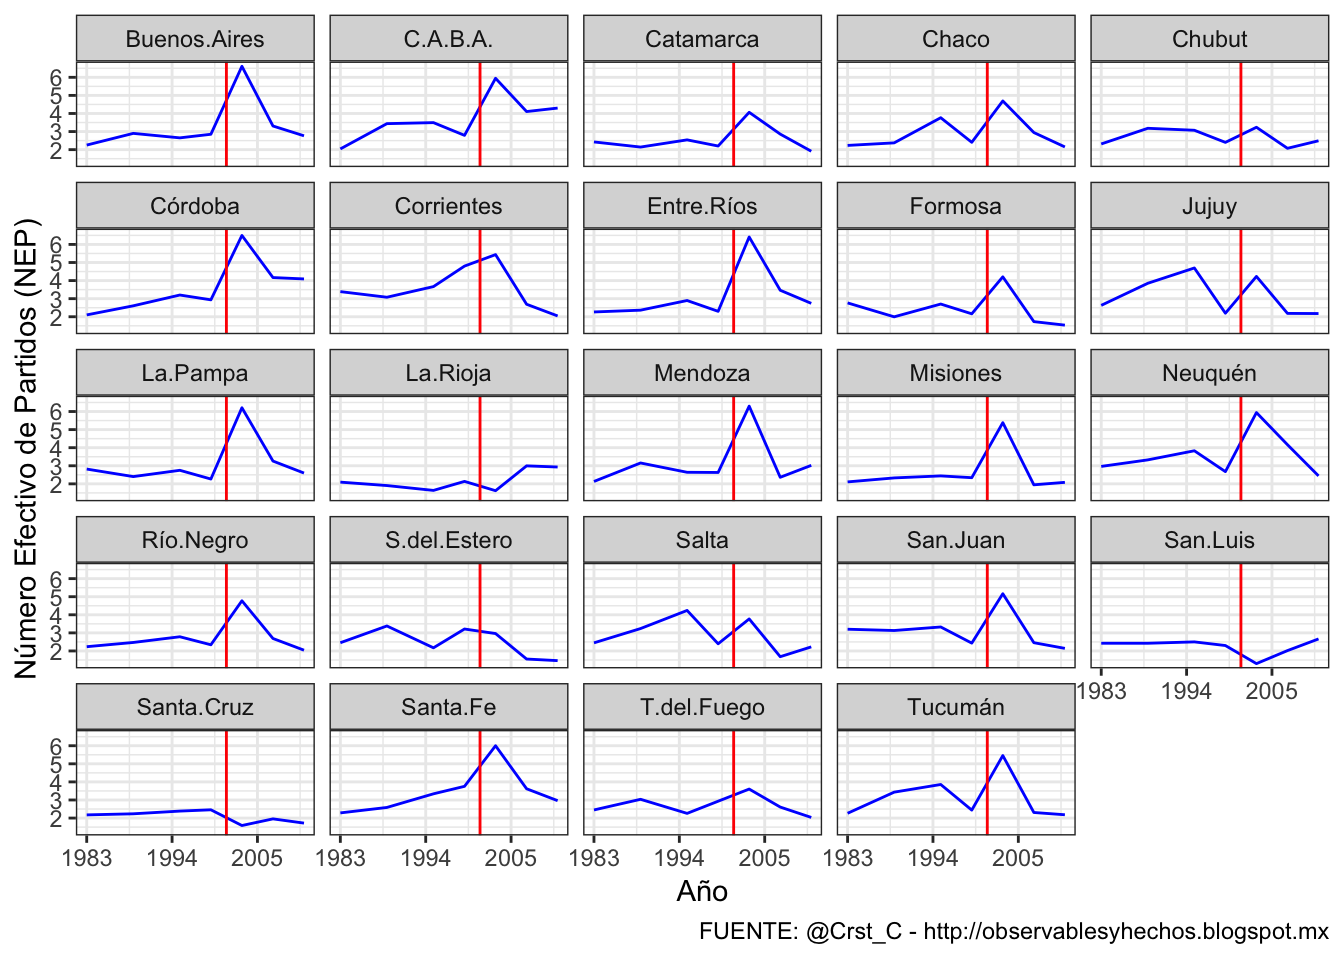
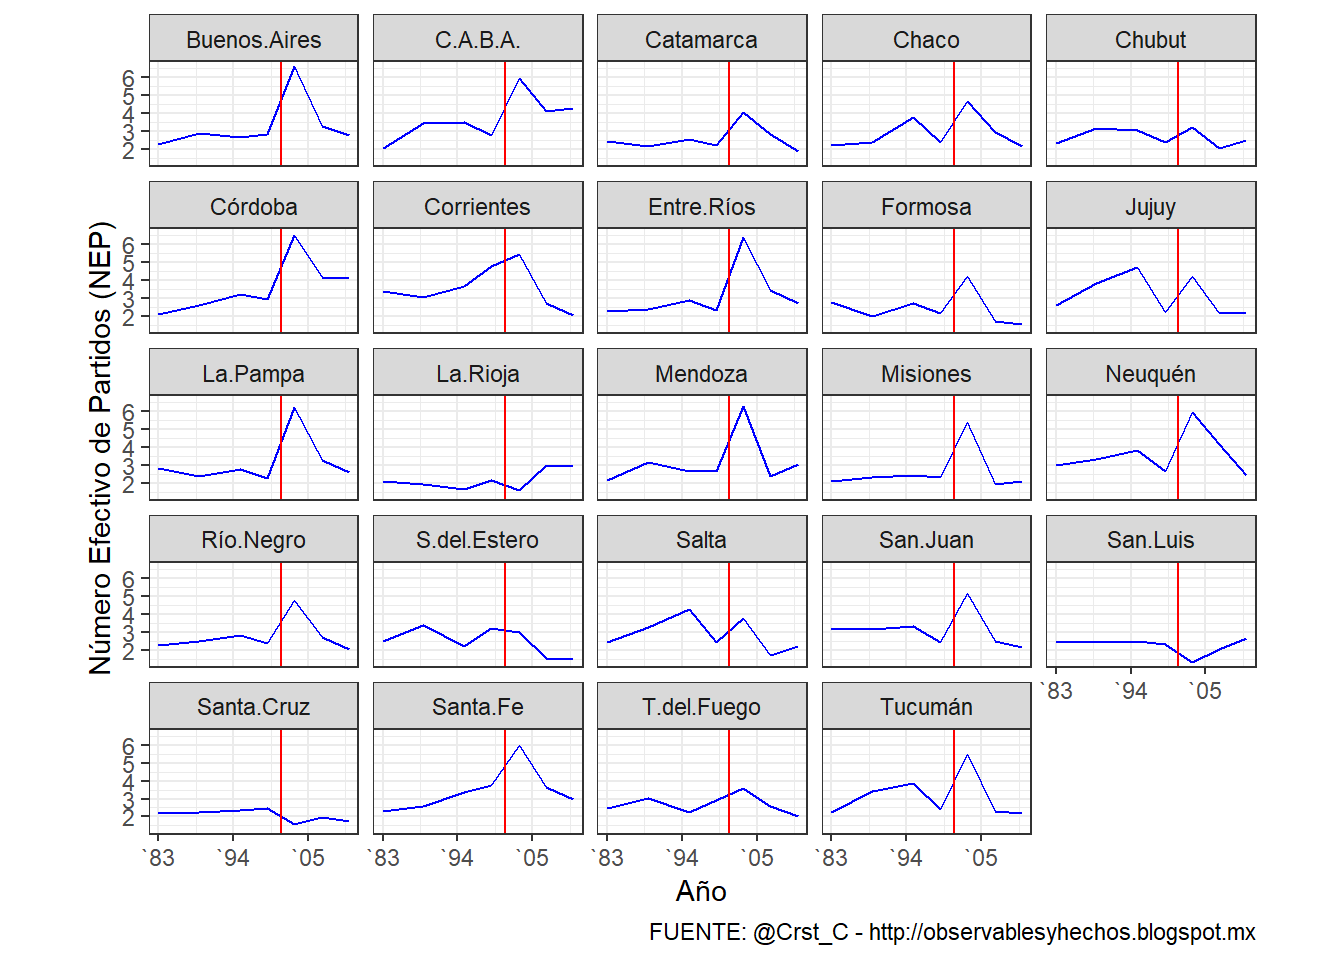
Site rebuild Wed, Jan 23, 2019  9:52:41 AM

Changed region(s): [[0.0, 0.0, 1.0, 1.0]]

diff --git a/public/2018/01/21/geofacetear/index.html b/public/2018/01/21/geofacetear/index.html
@@ -3,7 +3,7 @@
   <head>
     <meta charset="utf-8">
 <meta name="viewport" content="width=device-width, initial-scale=1.0">
-<meta name="generator" content="Hugo 0.51" />
+<meta name="generator" content="Hugo 0.53" />
 
 
 <title>GeofaceteAR - TuQmanoR</title>
@@ -63,7 +63,7 @@
 
   <article class="article">
     
-    <span class="article-duration">3 min read</span>
+    <span class="article-duration">4 min read</span>
     
 
     <h1 class="article-title">GeofaceteAR</h1>
@@ -76,18 +76,26 @@
       
 
 
-<p>En este posteo quiero mostrar brevemente el proyecto <code>geofacet_AR</code> presentado en la primera edición de <em><em>LatinR</em></em>, tal como adelante en el <a href="https://tuqmano.github.io/2018/01/17/bienvenidos-a-tuqmanor/">primer post</a>. El mismo es una extensión<sup>2</sup> (del proyecto de <em>Ryan Hafen</em> y, en otro nivel, de las grillas o <code>facet</code> de <code>ggplot2</code>).</p>
-<p>Me permito hacer una cita traduciendo el concepto (lo más básico posible) de la <a href="https://ryanhafen.com/blog/geofacet/">nota introductoria del propio Hafen</a>:</p>
+<p>En este posteo quiero mostrar brevemente el proyecto <code>geofacet_AR</code>, presentado en la primera edición de <em><em>LatinR</em></em>, tal como adelante en el <a href="https://tuqmano.github.io/2018/01/17/bienvenidos-a-tuqmanor/">primer post</a>. El mismo es una <span class="math inline">\(extensión^2\)</span> (del proyecto de <em>Ryan Hafen</em> y, en otro nivel, de las grillas o <code>facet</code> de <code>ggplot2</code>).</p>
+<p>Me permito hacer una citar/traducir el concepto (lo más básico posible) de la <a href="https://ryanhafen.com/blog/geofacet/">nota introductoria del propio Hafen</a>:</p>
 <blockquote>
-<p>“El paquete <code>geofacet</code> amplía <code>ggplot2</code> de una manera que facilita la creación de visualizaciones geográficamente facetadas en <code>R</code>. Para hacer <code>geofacet</code> se toman datos que representan diferentes entidades geográficas y se aplica un método de visualización para cada entidad, con el conjunto resultante de visualizaciones establecidas en una cuadrícula que imita la topología geográfica original lo más cerca posible”.</p>
+<p>“El paquete <code>geofacet</code> amplía <code>ggplot2</code> de una manera que facilita la creación de visualizaciones geográficamente facetadas en <code>R</code>. Para hacer <code>geofacet</code> se toman datos que representan diferentes entidades geográficas y se aplica un método de visualización para cada entidad. El conjunto resultante de visualizaciones conforma una cuadrícula que imita la topología geográfica original”.</p>
 </blockquote>
-<p>A continuación presetnare con un ejemplo sencillo cuales (creo) son las mayores ventajas de <code>geofacet</code>. A saber:</p>
+<p>A continuación presetnaré con un ejemplo sencillo cuales (creo) son las mayores ventajas de <code>geofacet</code>. A saber:</p>
 <ul>
-<li><p>se pueden graficar múltiples variables para cad unidad geográfica</p></li>
+<li><p>se pueden graficar múltiples variables para cada unidad geográfica</p></li>
 <li><p>se pueden aplicar otros esquemas de codificación visual más allá del color</p></li>
 <li><p>cada unidad geográfica tiene asignada la misma proporción espacial</p></li>
 </ul>
-<p>Una de las propuestas de <code>geofacet</code> es potenciar el desarrollo colaborativo de <em>geografías</em>. Cuando lo descubrí, de hecho, ya existía una grilla representando la geografía de Argentina (<code>argentina_grid1</code>), desarrollada por Elio Campitelli. Como puede leerse en el <a href="https://github.com/TuQmano/geofacet_ARG/blob/master/ARGENTINA/README.md"><code>README.md</code></a> del repositorio, decidí hacer una segunda versión basandome en el código de Elio; salvo que en este caso se eliminaron las grillas correspondientes a Malvinas y Antartida.</p>
+<div id="numero-efectivo-de-partidos-nep1" class="section level3">
+<h3>Número Efectivo de Partidos (NEP)<a href="#fn1" class="footnote-ref" id="fnref1"><sup>1</sup></a></h3>
+<p>Vamos a usar datos de <em>NEP</em> en base a el trabajo de <a href="http://gvptsites.umd.edu/calvo/calvo-escolar-final-completo-Mayo-30.05.pdf">Calvo &amp; Escolar(2005)</a> y el <em>Atlas Electoral</em> de <a href="http://twitter.com/andy_tow">@andy_tow</a>. El indicador computa la proporción de votos que el partido <span class="math inline">\(_i\)</span> obtiene sobre el total de votos emitidos:</p>
+<p><span class="math inline">\(\LARGE N_{2}=\frac{1}{\sum_{i}^{n}p_{i}^2}\)</span></p>
+<p>Las fuetes origniales fueron <em>tucumaneadas</em> a <a href="http://twitter.com/Crst_C/">@Crst_C</a> y están disponibles en <a href="http://observablesyhechos.blogspot.com/2014/08/numero-efectivo-de-partidos-en.html">este post</a>.</p>
+<p><img src="/post/Geofacetear_files/figure-html/unnamed-chunk-1-1.png" width="672" /></p>
+<p>El gráfico anterior funciona bastante bien. Usa la función <code>facet_wrap</code> de <code>ggplot2</code>para generar una grilla con el calculo de <strong>NEP</strong> para cada una de las provincias. Una serie de tiempo (1983-2011) y una linea roja vertical (<code>geom_vline</code>) que marca el año 2001 (la explosión del sistema de partidos o <em>El Naufragio</em> como lo denominaron <a href="https://www.jstor.org/stable/3455975">algunos</a>). Lo que <code>geofacet</code>permite con muy poco esfuerzo es acomodar la grilla simulando la geografía _“como si fuera un mapa”, como veremos más adelante.</p>
+<hr />
+<p>Una de las propuestas de <code>geofacet</code> es potenciar el desarrollo colaborativo de <em>geografías</em>. Cuando lo descubrí, de hecho, ya existía una grilla representando la geografía de Argentina (<code>argentina_grid1</code>), desarrollada por <a href="">Elio Campitelli</a>. Como puede leerse en el <a href="https://github.com/TuQmano/geofacet_ARG/blob/master/ARGENTINA/README.md"><code>README.md</code></a> del repositorio, decidí hacer una segunda versión basándome en el código de Elio; salvo que en este caso se eliminaron las grillas correspondientes a Malvinas y la Antartida.</p>
 <p>El código para crear el objeto que luego servirá como grilla para los gráficos es el siguiente. Un <code>data.frame</code> con cuatro variables. <code>col</code> y <code>row</code> marcan posiciones de filas y columnas en la grilla, <code>code</code> asigna un código a cada provincia, y <code>name</code> contiene los nombres de esos distritos.</p>
 <p>Finalmente <code>grid_preview(argentina_grid2)</code> permite visualizar la grilla - mapa. Así, facilmente podemos identificar que Jujuy (AR-Y) - la primera unidad en las cuatro variables- tiene como coordenadas de filas y columnas <code>(1, 1)</code> y Tierra del Fuego (AR-V) - la última unidad de las variabales de nuestro <code>data.frame</code> tiene como coordenadas <code>(10, 1)</code>, siendo el primer valor para las filas (<code>row</code>) y el segundo para las columnas (<code>col</code>),</p>
 <pre class="r"><code>
@@ -103,30 +111,33 @@ argentina_grid2 &lt;-  data.frame(
 )
 
 grid_preview(argentina_grid2)</code></pre>
-<p><img src="/post/Geofacetear_files/figure-html/geogridARG-1.png" width="672" /></p>
+<p><img src="/post/Geofacetear_files/figure-html/geogridARG-1.png" width="576" /></p>
+<hr />
+</div>
+<div id="geofacet-nep" class="section level3">
+<h3><code>geofacet</code> + NEP</h3>
 <p>Habiendo cargado nuestro <em>mapa</em>, solo debemos agregar una capa al <em>chunk</em> de <code>ggplot2</code>:</p>
-<pre class="r"><code>
-#VERSION GRILLA CONVENCIONAL  
-ggplot(nep.prov, aes(year, NEPp)) +
-  geom_line(color = &quot;blue&quot;) +
-  facet_wrap(~name_es) +
-  #facet_geo(~ name_es, grid = argentina_grid2, scales = &quot;free_y&quot;) +  ESTA LINEA ES LA QEU REEMPLAZAMOS PARA geofacet 
-  ylab(&quot;Número Efectivo de Partidos (NEP)&quot;) + 
-  scale_x_continuous(name = &quot;Año&quot;, breaks = c(1983, 1994, 2005))+ 
-  geom_vline(xintercept = 2001, colour=&quot;red&quot;)+ labs(caption=&quot;FUENTE: @Crst_C - http://observablesyhechos.blogspot.mx&quot; ) +
-  theme_bw()</code></pre>
-<p><img src="/post/Geofacetear_files/figure-html/unnamed-chunk-2-1.png" width="672" /></p>
 <pre class="r"><code>
 #VERSION GEOFACET  
 ggplot(nep.prov, aes(year, NEPp)) +
   geom_line(color = &quot;blue&quot;) +
   #facet_wrap(~name_es) + ESTA ES LA LINEA QUE REEMPLAZAMOS DEL GRAIFCO ANTERIOR
-  facet_geo(~ name_es, grid = argentina_grid2, scales = &quot;free_y&quot;) +  
+  facet_geo(~ name_es, grid = argentina_grid2, scales = &quot;free_y&quot;) +  # ESTA ES LA LINA PARA ORDENAR LA GRILLA COMO SI FUERA UN MAPA
   ylab(&quot;Número Efectivo de Partidos (NEP)&quot;) + 
-  scale_x_continuous(name = &quot;Año&quot;, breaks = c(1983, 1994, 2005))+ 
+  scale_x_continuous(name = &quot;Año&quot;, 
+                     breaks = c(1983, 1994, 2005), 
+                     labels = c(&quot;`83&quot;,&quot;`94&quot;,&quot;`05&quot;))+ 
   geom_vline(xintercept = 2001, colour=&quot;red&quot;)+ labs(caption=&quot;FUENTE: @Crst_C - http://observablesyhechos.blogspot.mx&quot; ) +
   theme_bw()</code></pre>
-<p><img src="/post/Geofacetear_files/figure-html/unnamed-chunk-2-2.png" width="672" /></p>
+<p><img src="/post/Geofacetear_files/figure-html/unnamed-chunk-2-1.png" width="576" /></p>
+<p>Esa es la idea básica de qué es y para qué sirve <code>geofacet</code>. En un próximo post intentaré con otros ejemplos mostrar un poco más el <strong>detrás de escena</strong> del código.</p>
+</div>
+<div class="footnotes">
+<hr />
+<ol>
+<li id="fn1"><p><em>“es el número hipotético de partidos de igual tamaño que tendrían el mismo efecto total en la fraccionalización del sistema que el número ‘real’ [actual] de tamaño desigual”</em> <a href="https://en.wikipedia.org/wiki/Effective_number_of_parties"><em>Laakso &amp; Taagepera (1979)</em></a><a href="#fnref1" class="footnote-back">↩</a></p></li>
+</ol>
+</div>
 
     </div>
   </article>
@@ -163,6 +174,9 @@ ggplot(nep.prov, aes(year, NEPp)) +
 
 
     
+<script src="/js/math-code.js"></script>
+<script async src="//cdnjs.cloudflare.com/ajax/libs/mathjax/2.7.5/MathJax.js?config=TeX-MML-AM_CHTML"></script>
+
 
     
   </body>

diff --git a/public/2018/01/17/bienvenidos-a-tuqmanor/index.html b/public/2018/01/17/bienvenidos-a-tuqmanor/index.html
@@ -3,7 +3,7 @@
   <head>
     <meta charset="utf-8">
 <meta name="viewport" content="width=device-width, initial-scale=1.0">
-<meta name="generator" content="Hugo 0.51" />
+<meta name="generator" content="Hugo 0.53" />
 
 
 <title>Bienvenidos a TuQmanoR - TuQmanoR</title>

diff --git a/public/tags/r-markdown-ggplot-geo/index.html b/public/tags/r-markdown-ggplot-geo/index.html
@@ -3,7 +3,7 @@
   <head>
     <meta charset="utf-8">
 <meta name="viewport" content="width=device-width, initial-scale=1.0">
-<meta name="generator" content="Hugo 0.51" />
+<meta name="generator" content="Hugo 0.53" />
 
 
 <title>R Markdown Ggplot Geo - TuQmanoR</title>

diff --git a/public/categories/index.html b/public/categories/index.html
@@ -3,7 +3,7 @@
   <head>
     <meta charset="utf-8">
 <meta name="viewport" content="width=device-width, initial-scale=1.0">
-<meta name="generator" content="Hugo 0.51" />
+<meta name="generator" content="Hugo 0.53" />
 
 
 <title>Categories - TuQmanoR</title>

diff --git a/public/tags/r-markdown/index.html b/public/tags/r-markdown/index.html
@@ -3,7 +3,7 @@
   <head>
     <meta charset="utf-8">
 <meta name="viewport" content="width=device-width, initial-scale=1.0">
-<meta name="generator" content="Hugo 0.51" />
+<meta name="generator" content="Hugo 0.53" />
 
 
 <title>R Markdown - TuQmanoR</title>

diff --git a/public/categories/r-dataviz/index.html b/public/categories/r-dataviz/index.html
@@ -3,7 +3,7 @@
   <head>
     <meta charset="utf-8">
 <meta name="viewport" content="width=device-width, initial-scale=1.0">
-<meta name="generator" content="Hugo 0.51" />
+<meta name="generator" content="Hugo 0.53" />
 
 
 <title>R Dataviz - TuQmanoR</title>

diff --git a/public/about/index.html b/public/about/index.html
@@ -3,7 +3,7 @@
   <head>
     <meta charset="utf-8">
 <meta name="viewport" content="width=device-width, initial-scale=1.0">
-<meta name="generator" content="Hugo 0.51" />
+<meta name="generator" content="Hugo 0.53" />
 
 
 <title>About - TuQmanoR</title>

diff --git a/public/post/index.html b/public/post/index.html
@@ -3,7 +3,7 @@
   <head>
     <meta charset="utf-8">
 <meta name="viewport" content="width=device-width, initial-scale=1.0">
-<meta name="generator" content="Hugo 0.51" />
+<meta name="generator" content="Hugo 0.53" />
 
 
 <title>Posts - TuQmanoR</title>

diff --git a/public/tags/index.html b/public/tags/index.html
@@ -3,7 +3,7 @@
   <head>
     <meta charset="utf-8">
 <meta name="viewport" content="width=device-width, initial-scale=1.0">
-<meta name="generator" content="Hugo 0.51" />
+<meta name="generator" content="Hugo 0.53" />
 
 
 <title>Tags - TuQmanoR</title>

diff --git a/public/categories/r/index.html b/public/categories/r/index.html
@@ -3,7 +3,7 @@
   <head>
     <meta charset="utf-8">
 <meta name="viewport" content="width=device-width, initial-scale=1.0">
-<meta name="generator" content="Hugo 0.51" />
+<meta name="generator" content="Hugo 0.53" />
 
 
 <title>R - TuQmanoR</title>

diff --git a/public/index.html b/public/index.html
@@ -3,7 +3,7 @@
   <head>
     <meta charset="utf-8">
 <meta name="viewport" content="width=device-width, initial-scale=1.0">
-<meta name="generator" content="Hugo 0.51" />
+<meta name="generator" content="Hugo 0.53" />
 
 
 <title>TuQmanoR</title>
